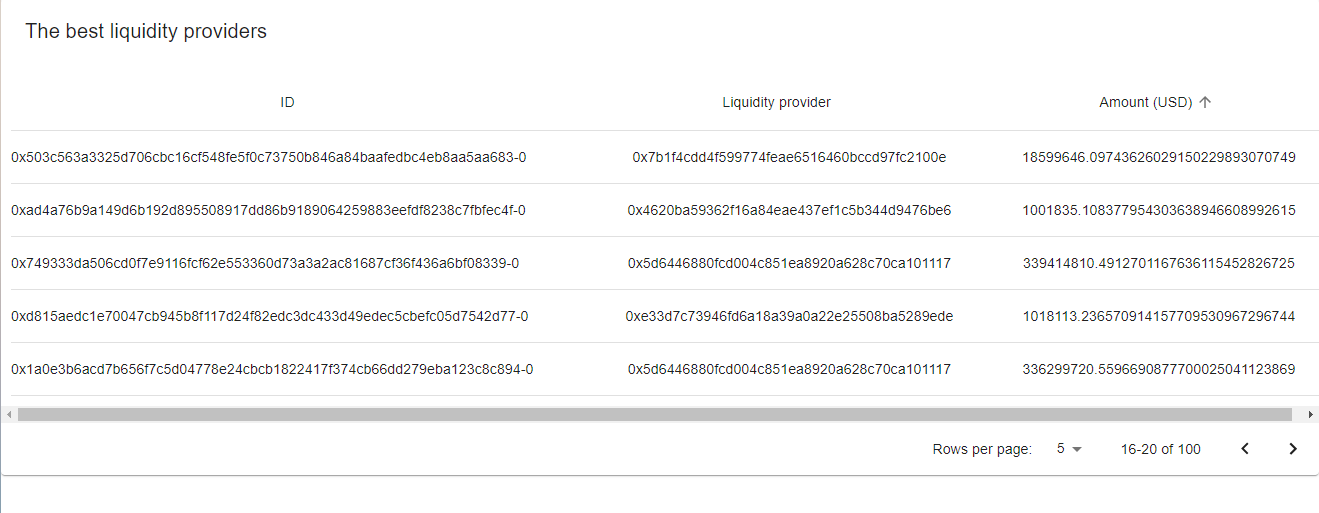
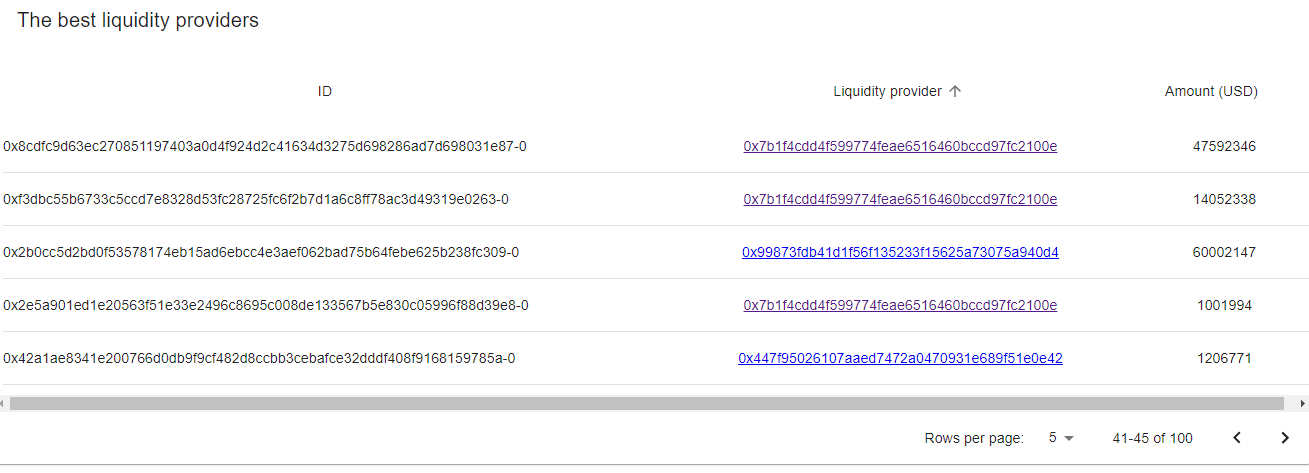
Fixed amounts

diff --git a/src/MaterialTable.js b/src/MaterialTable.js
@@ -101,8 +101,8 @@ export default function MaterialTable(props) {
                       <TableCell component="th" id={labelId} scope="row" padding="none">
                         {row.id}
                       </TableCell>
-                      <TableCell align="center">{row.to}</TableCell>
-                      <TableCell align="center">{row.amountUSD}</TableCell>
+                      <TableCell align="center"><a href={'https://etherscan.io/address/'+row.to}>{row.to}</a></TableCell>
+                      <TableCell align="center">{row.amountUSD.toString().split('.')[0]}</TableCell>
                     </TableRow>
                   );
                 })}

diff --git a/src/EnchancedTableToolbar.js b/src/EnchancedTableToolbar.js
@@ -4,12 +4,9 @@ import Typography from '@material-ui/core/Typography';
 import PropTypes from 'prop-types';
 
 const useToolbarStyles = makeStyles((theme) => ({
-  root: {
-    paddingLeft: theme.spacing(2),
-    paddingRight: theme.spacing(1),
-  },
   title: {
     flex: '1 1 100%',
+    align: 'center'
   },
 }));
 
